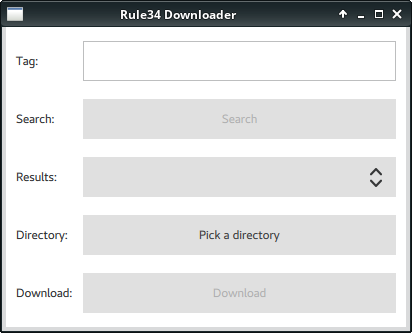
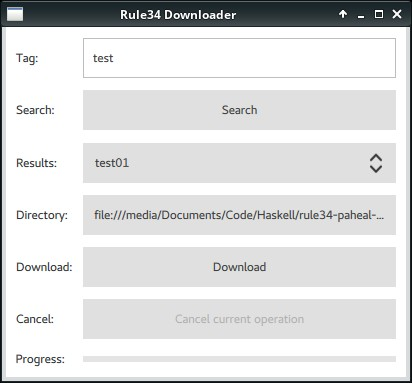
Add progress bar

diff --git a/src/main.qml b/src/main.qml
@@ -5,11 +5,13 @@ import QtQuick.Controls 2.2
 import QtQuick.Dialogs 1.2
 
 Window {
+    property var uiIsEnabled: cancelDisabled
+
     title: "Rule34 Downloader"
     visible: true
 
-    minimumHeight: 300
-    maximumHeight: 300
+    minimumHeight: 350
+    maximumHeight: 350
 
     minimumWidth: 400
     maximumWidth: 400
@@ -21,10 +23,6 @@ Window {
         standardButtons: msgButtons
         onRejected: markAsHidden(), cancel()
         onAccepted: markAsHidden()
-    }
-
-    function enableDLButton() {
-        return tagComboBox.currentText != "" && folderPicker.folder != ""
     }
 
     GridLayout {
@@ -41,6 +39,7 @@ Window {
         TextField {
             id: tagInput
             Layout.fillWidth: true
+            enabled: uiIsEnabled
         }
 
         Label {
@@ -50,7 +49,7 @@ Window {
             id: searchButton
             Layout.fillWidth: true
             text: "Search"
-            enabled: tagInput.text != ""
+            enabled: tagInput.text != "" && uiIsEnabled
             onClicked: search(tagInput.text)
         }
 
@@ -61,7 +60,7 @@ Window {
             id: tagComboBox
             model: searchResults
             Layout.fillWidth: true
-            onCurrentTextChanged: downloadButton.enabled = enableDLButton()
+            enabled: uiIsEnabled
         }
 
         Label {
@@ -72,7 +71,7 @@ Window {
             Layout.fillWidth: true
             text: "Pick a directory"
             onClicked: folderPicker.visible = true
-            onTextChanged: downloadButton.enabled = enableDLButton()
+            enabled: uiIsEnabled
         }
         FileDialog {
             id: folderPicker
@@ -87,8 +86,31 @@ Window {
             id: downloadButton
             Layout.fillWidth: true
             text: "Download"
-            enabled: false
+
+            enabled: tagComboBox.currentText != "" &&
+                     folderPicker.folder != "" &&
+                     uiIsEnabled
+
             onClicked: download(tagComboBox.currentText, folderPicker.folder)
+        }
+
+        Label {
+            text: "Cancel:"
+        }
+        Button {
+            id: cancelButton
+            Layout.fillWidth: true
+            text: "Cancel current operation"
+            enabled: !uiIsEnabled
+            onClicked: cancel()
+        }
+
+        Label {
+            text: "Progress:"
+        }
+        ProgressBar {
+            value: progressBar
+            Layout.fillWidth: true
         }
     }
 }

diff --git a/README.md b/README.md
@@ -5,7 +5,7 @@ The website has a one request a second limit, thus users with fast internet conn
 
 ![Screenshot of program](r34downloader.png?raw=true "Screenshot of program")
 
-## Installation (Linux):
+## Installation (Linux/Mac?):
 
 I don't have a mac to test, but if you can aquire the qt quick required files, I assume it will work.
 
@@ -42,8 +42,6 @@ Or, run
 
 
 ## Installation (Windows):
-
-Currently the windows version seems to run pretty badly, hopefully I can mitigate this, unless it's an issue in hsqml.
 
 #### Precompiled
 
